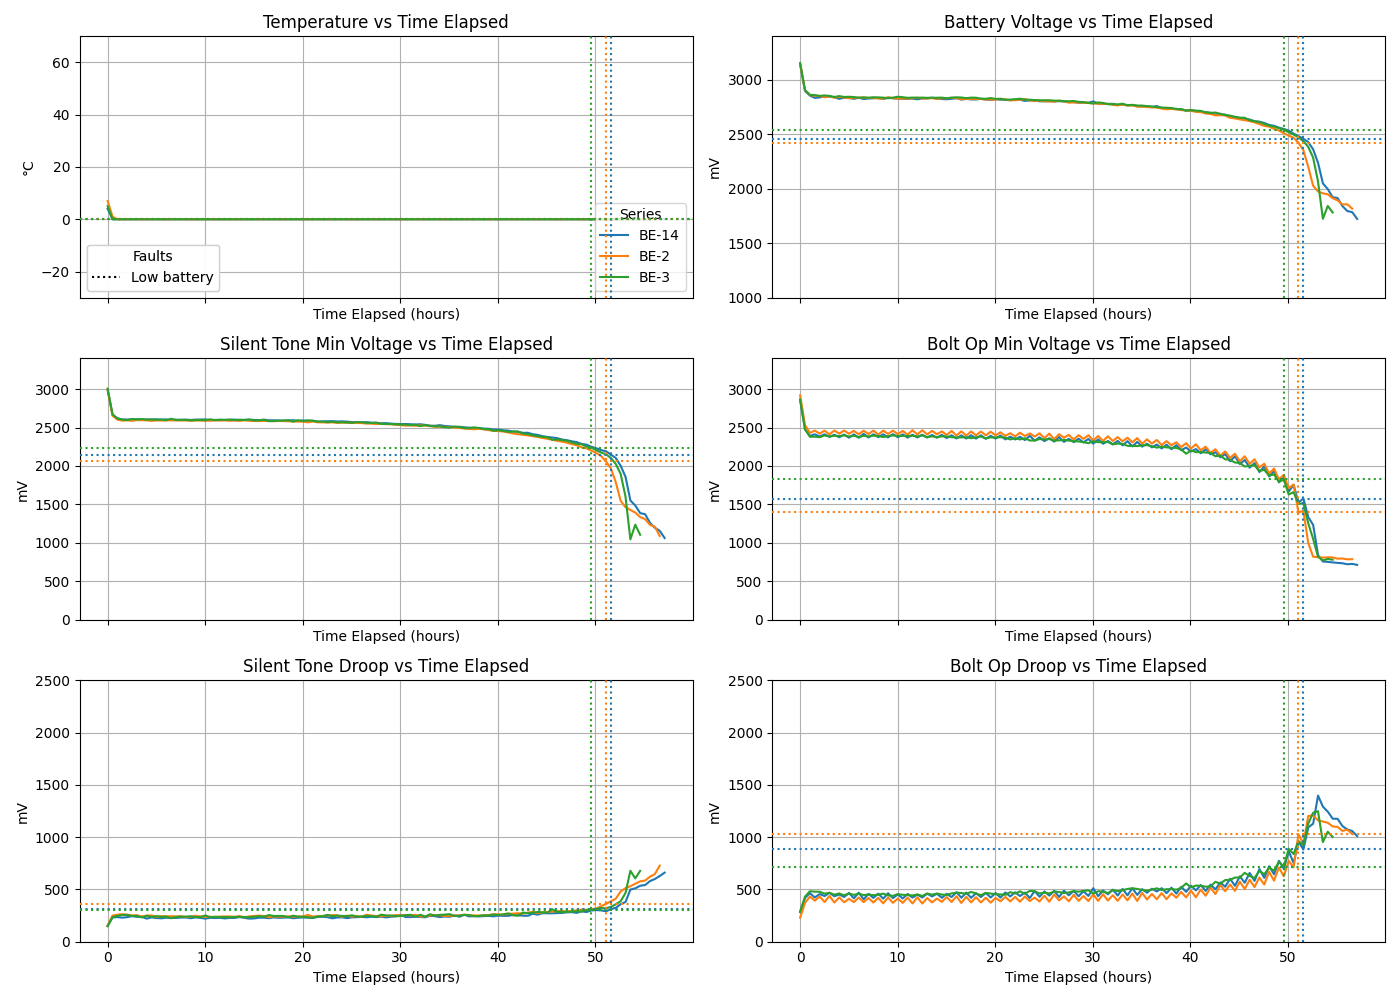
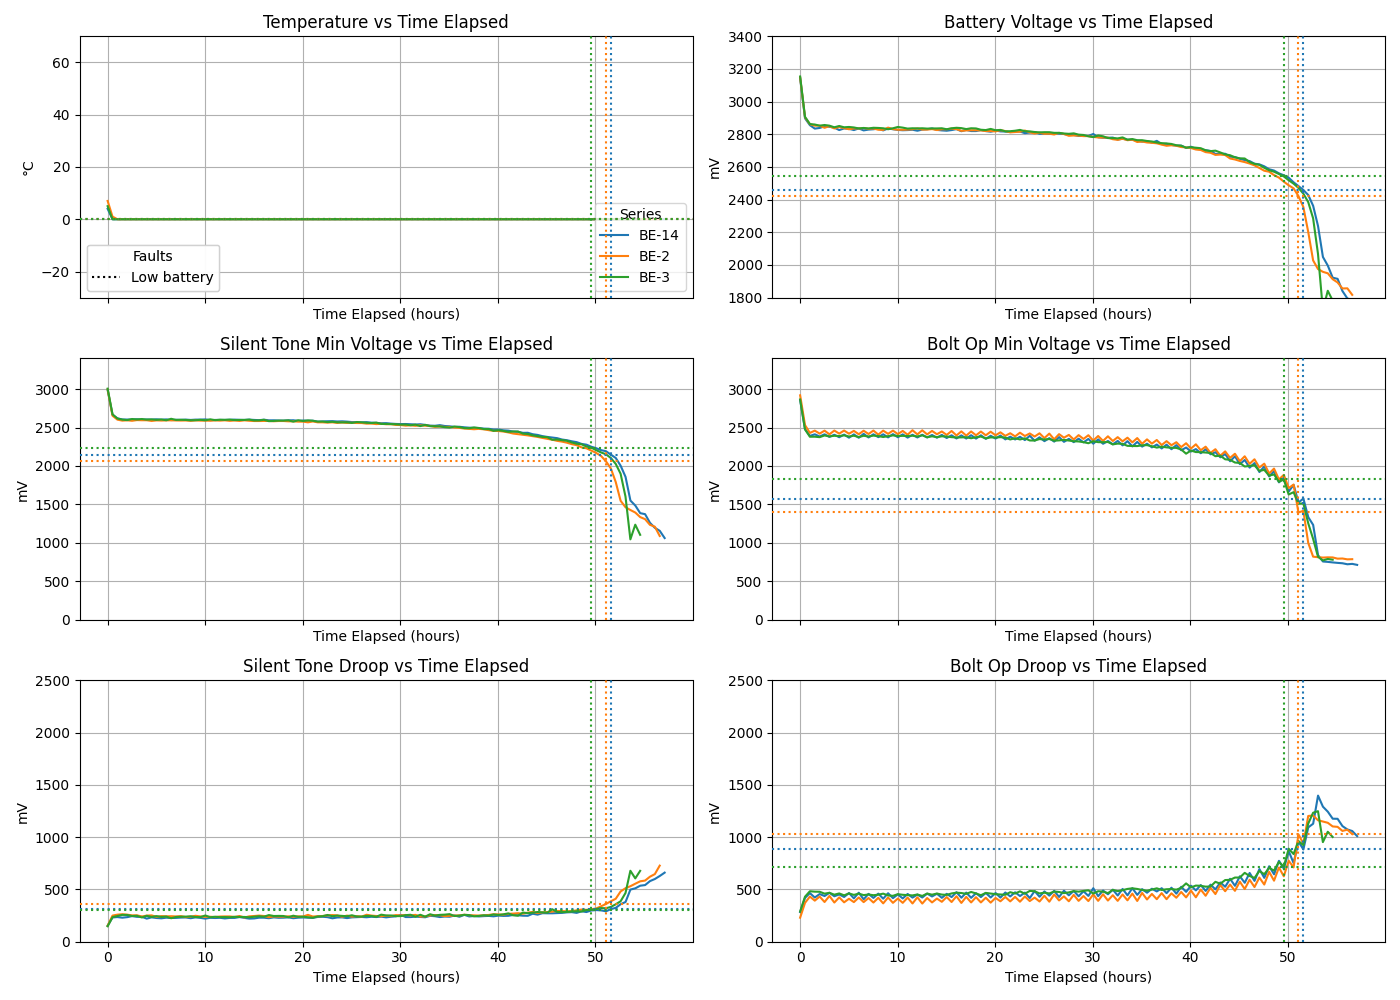
amazon 0c

Changed region(s): [[0.5221, 0.031, 0.9829, 0.279]]

diff --git a/plot_folder.py b/plot_folder.py
@@ -6,7 +6,7 @@ import numpy as np  # NEW
 from matplotlib.lines import Line2D
 
 # CONFIGURATION
-CSV_DIR = "csvs/manufacturers-cross-temp/temp-0c/energizer"
+CSV_DIR = "csvs/manufacturers-cross-temp/temp-0c/amazon"
 CSV_TAG = os.path.basename(os.path.normpath(CSV_DIR))
 PLOT_OUTPUT = f"plots/compare_all_{CSV_DIR.replace("/", "-")}.png"
 COMPUTE_LOW_BATT_BY_ALL_FAULTS=True
@@ -151,7 +151,7 @@ for csv_path in csv_files:
         if col == "temp":
             ax.set_ylim(-30, 70)
         elif col == "batt_mV":
-            ax.set_ylim(1000, 3400)
+            ax.set_ylim(1800, 3400)
         elif col in ("soundDroopMag_mV", "boltDroopMag_mV"):
             ax.set_ylim(0, 2500)
         else:
